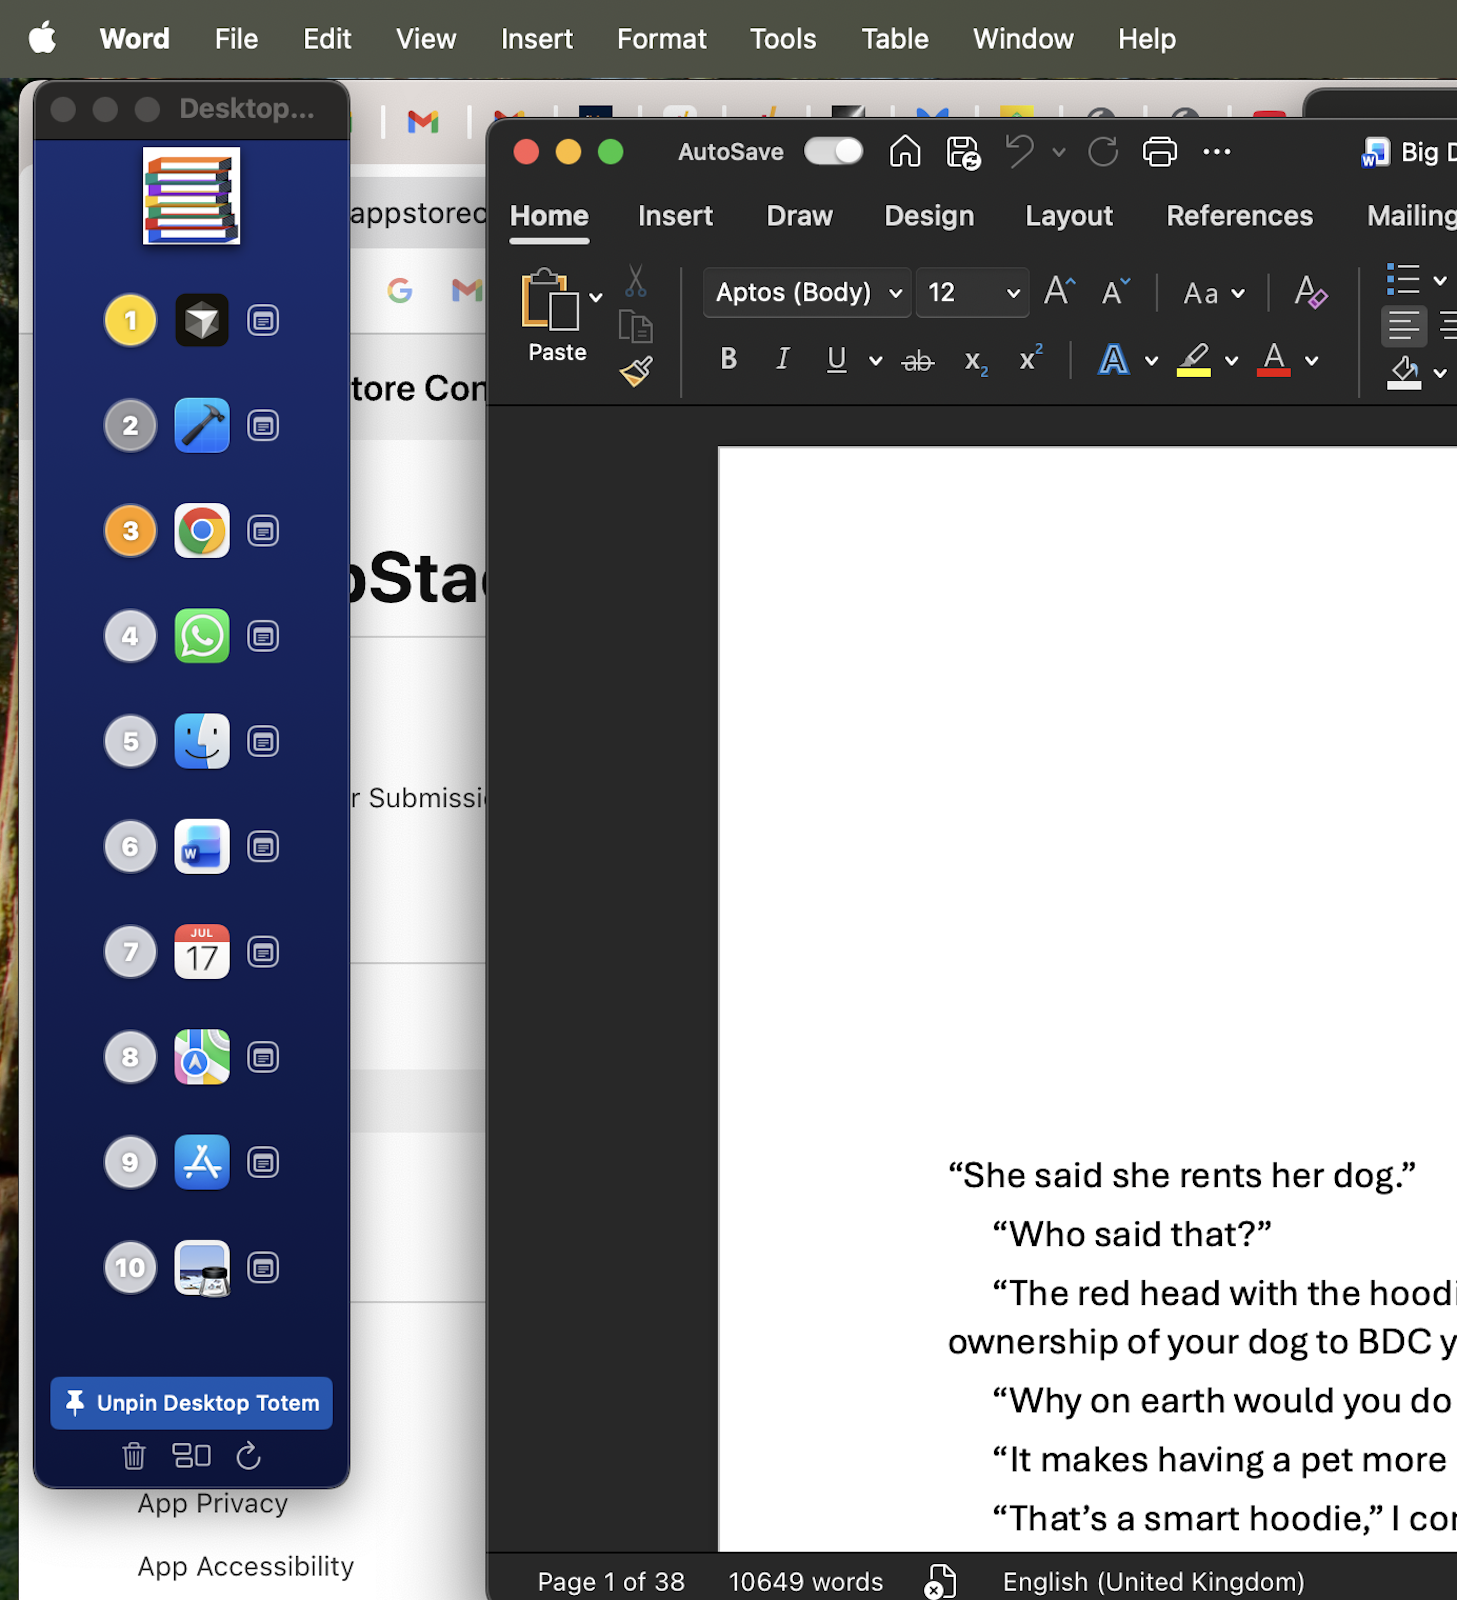
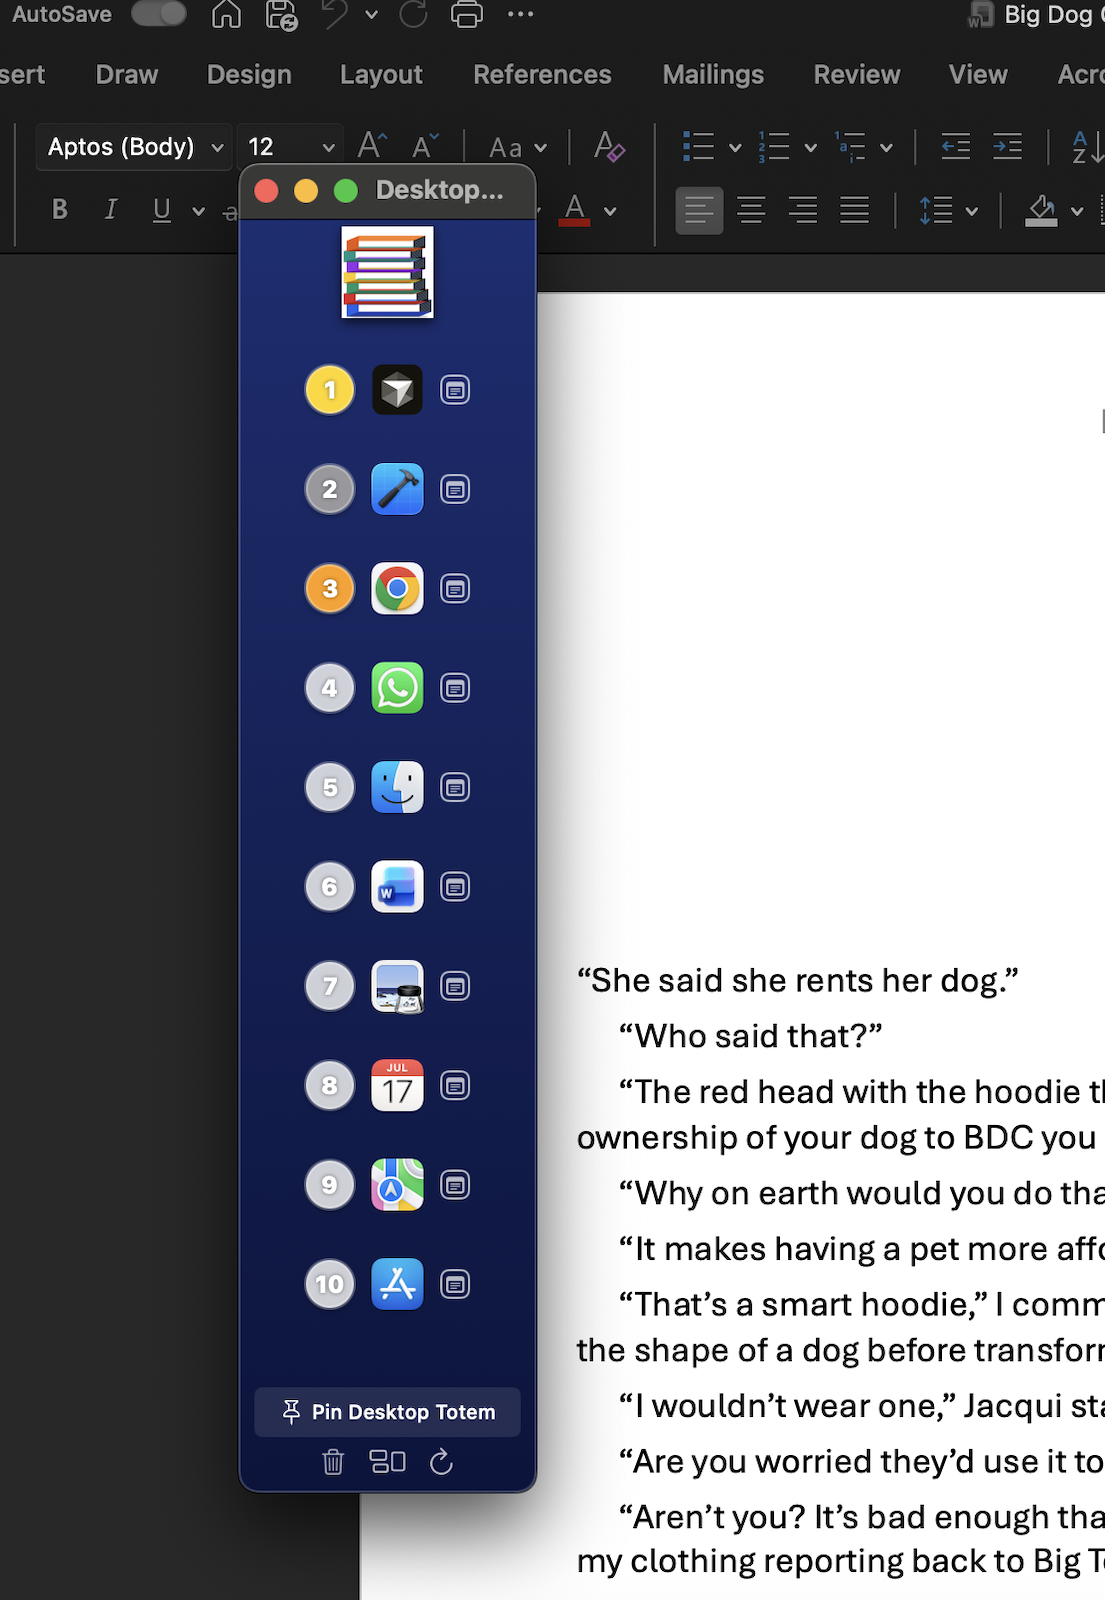
Tune macOS card image behaviour and update Desktop Totem screenshot

diff --git a/app/page.tsx b/app/page.tsx
@@ -107,7 +107,9 @@ export default function Home() {
                     <img
                       src={app.screenshots[0]}
                       alt={app.name}
-                      className="w-full h-full object-cover"
+                      className={`w-full h-full ${
+                        app.platform === 'macOS' ? 'object-contain' : 'object-cover'
+                      }`}
                     />
                   ) : (
                     <div
@@ -121,7 +123,6 @@ export default function Home() {
                       </div>
                     </div>
                   )}
-                  
                   {/* Status Badge */}
                   <div className="absolute top-3 right-3">
                     <span className={`px-3 py-1 rounded-full text-xs font-bold shadow-lg ${
